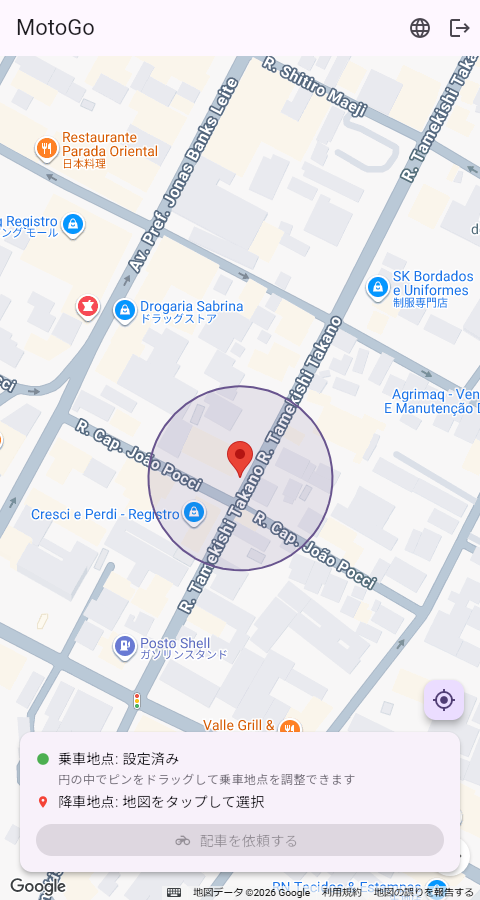
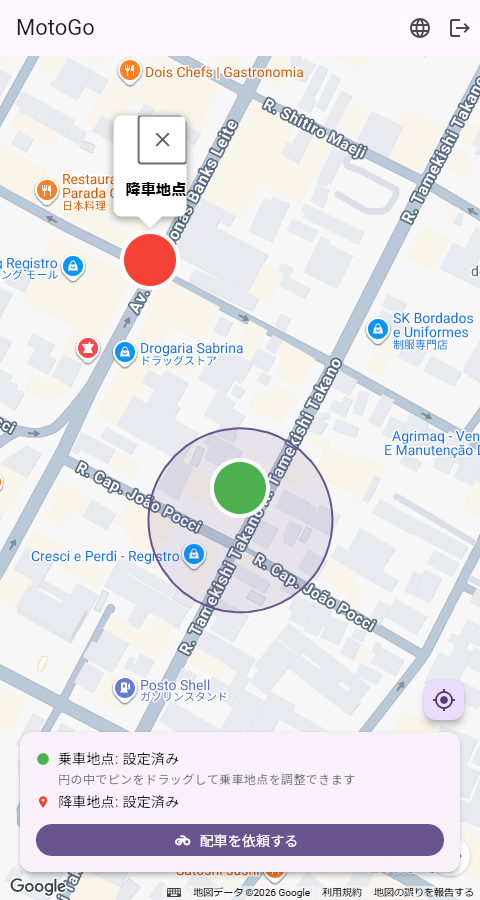
Fix indistinguishable pickup/dropoff marker colors; add device-location marker
- Both markers rendered as the same red pin on web: confirmed this is a
  long-standing google_maps_flutter_web bug where
  BitmapDescriptor.defaultMarkerWithHue ignores the hue argument entirely
  (flutter/flutter#87917, #161948). Replaced with self-drawn circular
  bitmaps (_createPinBitmap, rendered once via dart:ui Canvas at
  startup) — green for pickup, red for dropoff — which render correctly
  on every platform since they sidestep the native hue API altogether.
- Added a third, non-draggable marker at _deviceLocation (blue) so the
  user's actual position stays visible even after dragging the pickup
  pin away from it. GoogleMap's own myLocationEnabled ("blue dot") was
  tried first but confirmed (by direct testing) to render nothing on
  web — the underlying Maps JavaScript API has no such primitive to
  begin with, unlike the native Android/iOS SDKs.
- Fixed a marker-position bug surfaced while testing the above: the
  custom circular bitmaps were anchored at (0.5, 1.0), the default for
  teardrop-shaped pins, which floated our circles about half their own
  height above their actual coordinate. All three markers now use
  anchor (0.5, 0.5).
- Attempted to force pickup/dropoff info windows permanently open (a
  separate ask) via showMarkerInfoWindow, with a delay to work around a
  known plugin timing issue (flutter/flutter#51717) — confirmed working
  for a single marker, but Google Maps (native SDKs included, not a
[…]

diff --git a/lib/features/passenger/home/passenger_home_screen.dart b/lib/features/passenger/home/passenger_home_screen.dart
@@ -1,4 +1,5 @@
 import 'dart:math' as math;
+import 'dart:ui' as ui;
 
 import 'package:flutter/material.dart';
 import 'package:flutter_riverpod/flutter_riverpod.dart';
@@ -60,6 +61,49 @@ LatLng _destinationPoint(
   return LatLng(lat2 * 180 / math.pi, lon2 * 180 / math.pi);
 }
 
+/// Renders a simple filled-circle pin bitmap in [color], for use as a
+/// [Marker.icon].
+/// [color] で塗りつぶした単純な円形ピンの画像を生成し、[Marker.icon] として
+/// 使えるようにする。
+///
+/// `BitmapDescriptor.defaultMarkerWithHue` is used instead on Android/iOS,
+/// but Flutter Web's Google Maps implementation has a long-standing,
+/// unresolved bug where it ignores the hue and always renders the standard
+/// red pin (flutter/flutter#87917, #161948) — with only that, the pickup
+/// (meant to be green) and dropoff (red) markers were indistinguishable on
+/// web. Drawing our own bitmap sidesteps the bug entirely and looks the
+/// same on every platform.
+/// Android/iOSでは代わりに`BitmapDescriptor.defaultMarkerWithHue`を使うが、
+/// Flutter WebのGoogle Maps実装にはhueを無視して常に標準の赤いピンを描画する
+/// という長年未解決のバグがある（flutter/flutter#87917、#161948）—
+/// これだけだと、乗車地点（本来は緑）と降車地点（赤）のマーカーがWeb上で
+/// 区別できなくなってしまう。自前でビットマップを描画することでこのバグを
+/// 完全に回避でき、かつどのプラットフォームでも同じ見た目になる。
+Future<BitmapDescriptor> _createPinBitmap(Color color) async {
+  const size = 64.0;
+  final recorder = ui.PictureRecorder();
+  final canvas = Canvas(recorder, const Rect.fromLTWH(0, 0, size, size));
+  const center = Offset(size / 2, size / 2);
+  const radius = size / 2 - 4;
+
+  canvas.drawCircle(center, radius, Paint()..color = color);
+  canvas.drawCircle(
+    center,
+    radius,
+    Paint()
+      ..color = Colors.white
+      ..style = PaintingStyle.stroke
+      ..strokeWidth = 4,
+  );
+
+  final image = await recorder.endRecording().toImage(
+    size.toInt(),
+    size.toInt(),
+  );
+  final bytes = await image.toByteData(format: ui.ImageByteFormat.png);
+  return BitmapDescriptor.bytes(bytes!.buffer.asUint8List());
+}
+
 /// Passenger home screen: a map to request a ride on.
 /// 乗客用ホーム画面: 配車依頼を出すための地図。
 ///
@@ -107,6 +151,21 @@ class _PassengerHomeScreenState extends ConsumerState<PassengerHomeScreen> {
   // （_onPickupMarkerDragEnd参照）。
   LatLng? _pickupLocation;
   LatLng? _dropoffLocation;
+  // Custom-drawn marker bitmaps — see _createPinBitmap for why these
+  // replace BitmapDescriptor.defaultMarkerWithHue. Null until the async
+  // draw finishes (briefly, at startup); markers fall back to the plain
+  // default marker until then.
+  // 自前で描画したマーカー画像 — なぜ`BitmapDescriptor.defaultMarkerWithHue`
+  // の代わりにこれを使うかは_createPinBitmap参照。非同期の描画が完了する
+  // （起動時のごく短い間）まではnullで、それまでマーカーは通常のデフォルト
+  // マーカーにフォールバックする。
+  BitmapDescriptor? _pickupIcon;
+  BitmapDescriptor? _dropoffIcon;
+  // Marks _deviceLocation itself (see below) — distinct from the pickup
+  // pin, which starts at the same spot but the user can drag away from it.
+  // _deviceLocation自体を示す（下記参照）— 乗車地点ピンとは別物で、
+  // 最初は同じ地点だがユーザーがそこから離してドラッグできる。
+  BitmapDescriptor? _deviceLocationIcon;
   bool _isLocatingDevice = true;
   // Stores which error occurred (not the localized message itself) so the
   // message can be rebuilt in the current language if it changes while the
@@ -120,6 +179,21 @@ class _PassengerHomeScreenState extends ConsumerState<PassengerHomeScreen> {
   void initState() {
     super.initState();
     _initPickupFromDeviceLocation();
+    _loadMarkerIcons();
+  }
+
+  Future<void> _loadMarkerIcons() async {
+    final icons = await Future.wait([
+      _createPinBitmap(Colors.green),
+      _createPinBitmap(Colors.red),
+      _createPinBitmap(Colors.blue),
+    ]);
+    if (!mounted) return;
+    setState(() {
+      _pickupIcon = icons[0];
+      _dropoffIcon = icons[1];
+      _deviceLocationIcon = icons[2];
+    });
   }
 
   @override
@@ -264,23 +338,58 @@ class _PassengerHomeScreenState extends ConsumerState<PassengerHomeScreen> {
   @override
   Widget build(BuildContext context) {
     final l10n = AppLocalizations.of(context)!;
+    // Our custom marker bitmaps are plain circles (no pointed pin tip), so
+    // anchor them at their exact center (0.5, 0.5) rather than the default
+    // (0.5, 1.0) — the default assumes a teardrop pin whose bottom tip
+    // marks the location, which would place a circle floating half its
+    // own height above the actual coordinate.
+    // 自前のマーカー画像は（先端の無い）単純な円のため、デフォルトの
+    // アンカー(0.5, 1.0)ではなく、中心(0.5, 0.5)を基準にする —
+    // デフォルトは先端が地点を指す涙形ピンを想定しており、そのままだと
+    // 円が実際の座標より自分の高さの半分だけ浮いた位置に表示されてしまう。
+    const circleAnchor = Offset(0.5, 0.5);
+
     final markers = <Marker>{
+      // The device's own live position — see _deviceLocationIcon's field
+      // doc comment for why this exists instead of GoogleMap's
+      // myLocationEnabled. Not draggable; purely informational.
+      // 端末自身のリアルタイム位置 — GoogleMapの`myLocationEnabled`の
+      // 代わりにこれがある理由は_deviceLocationIconのフィールドdocコメント
+      // 参照。ドラッグ不可、あくまで表示専用。
+      if (_deviceLocation != null)
+        Marker(
+          markerId: const MarkerId('device_location'),
+          position: _deviceLocation!,
+          icon: _deviceLocationIcon ?? BitmapDescriptor.defaultMarker,
+          anchor: circleAnchor,
+          zIndexInt: 0,
+        ),
       if (_pickupLocation != null)
         Marker(
           markerId: const MarkerId('pickup'),
           position: _pickupLocation!,
           draggable: true,
           onDragEnd: _onPickupMarkerDragEnd,
-          icon: BitmapDescriptor.defaultMarkerWithHue(
-            BitmapDescriptor.hueGreen,
-          ),
+          // _pickupIcon/_dropoffIcon replace defaultMarkerWithHue — see
+          // _createPinBitmap for why (a Flutter Web bug makes the hue
+          // param a no-op there). Falls back to the plain default marker
+          // for the brief moment before the async draw finishes.
+          // _pickupIcon/_dropoffIconはdefaultMarkerWithHueの代替 — 理由は
+          // _createPinBitmap参照（Flutter Webのバグでhue引数が効かない）。
+          // 非同期描画が完了するまでのごく短い間は、通常のデフォルト
+          // マーカーにフォールバックする。
+          icon: _pickupIcon ?? BitmapDescriptor.defaultMarker,
+          anchor: circleAnchor,
+          zIndexInt: 1,
           infoWindow: InfoWindow(title: l10n.passengerPickupMarkerTitle),
         ),
       if (_dropoffLocation != null)
         Marker(
           markerId: const MarkerId('dropoff'),
           position: _dropoffLocation!,
-          icon: BitmapDescriptor.defaultMarkerWithHue(BitmapDescriptor.hueRed),
+          icon: _dropoffIcon ?? BitmapDescriptor.defaultMarker,
+          anchor: circleAnchor,
+          zIndexInt: 1,
           infoWindow: InfoWindow(title: l10n.passengerDropoffMarkerTitle),
         ),
     };
@@ -343,6 +452,24 @@ class _PassengerHomeScreenState extends ConsumerState<PassengerHomeScreen> {
                       ).colorScheme.primary.withValues(alpha: 0.12),
                     ),
                   },
+            // Note: intentionally NOT using GoogleMap's built-in
+            // myLocationEnabled ("blue dot") flag — verified in this
+            // environment that google_maps_flutter_web doesn't actually
+            // render it (the underlying Google Maps JavaScript API has no
+            // native "my location" primitive; that's an app-level feature
+            // on Android/iOS/Google's own web maps, not something the
+            // embeddable JS API provides). The device_location marker
+            // below (in `markers`) is our own reliable, cross-platform
+            // equivalent.
+            // 注: あえてGoogleMap組み込みのmyLocationEnabled（「青い点」）
+            // フラグは使っていない — この環境で検証した結果、
+            // google_maps_flutter_webでは実際には描画されないことを確認
+            // 済み（Google Maps JavaScript API自体に「現在地」を示す
+            // ネイティブの仕組みが無いため。それはAndroid/iOS/Google自身の
+            // Web地図が持つアプリレベルの機能であり、組み込み用JS APIが
+            // 提供するものではない）。下の`markers`にある
+            // device_locationマーカーが、これに代わる自前実装の
+            // クロスプラットフォームで確実に動く同等機能。
             myLocationButtonEnabled: false,
             zoomControlsEnabled: false,
           ),
